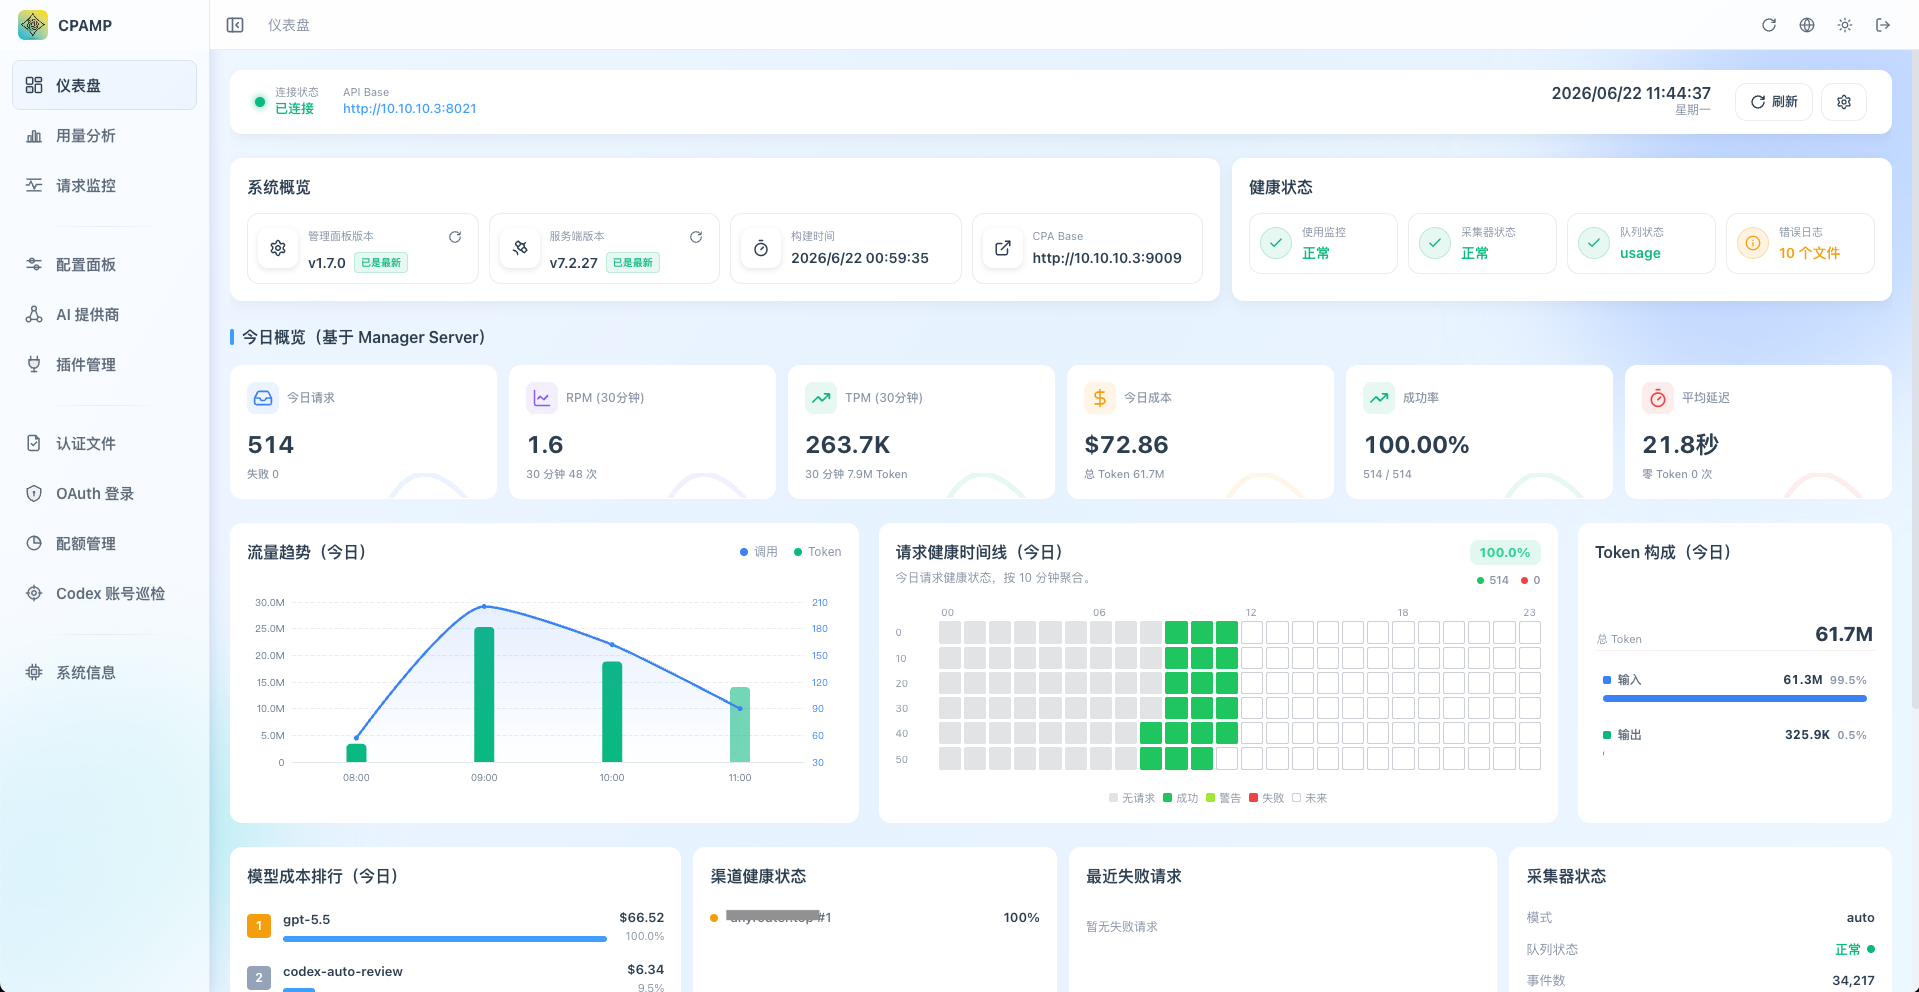
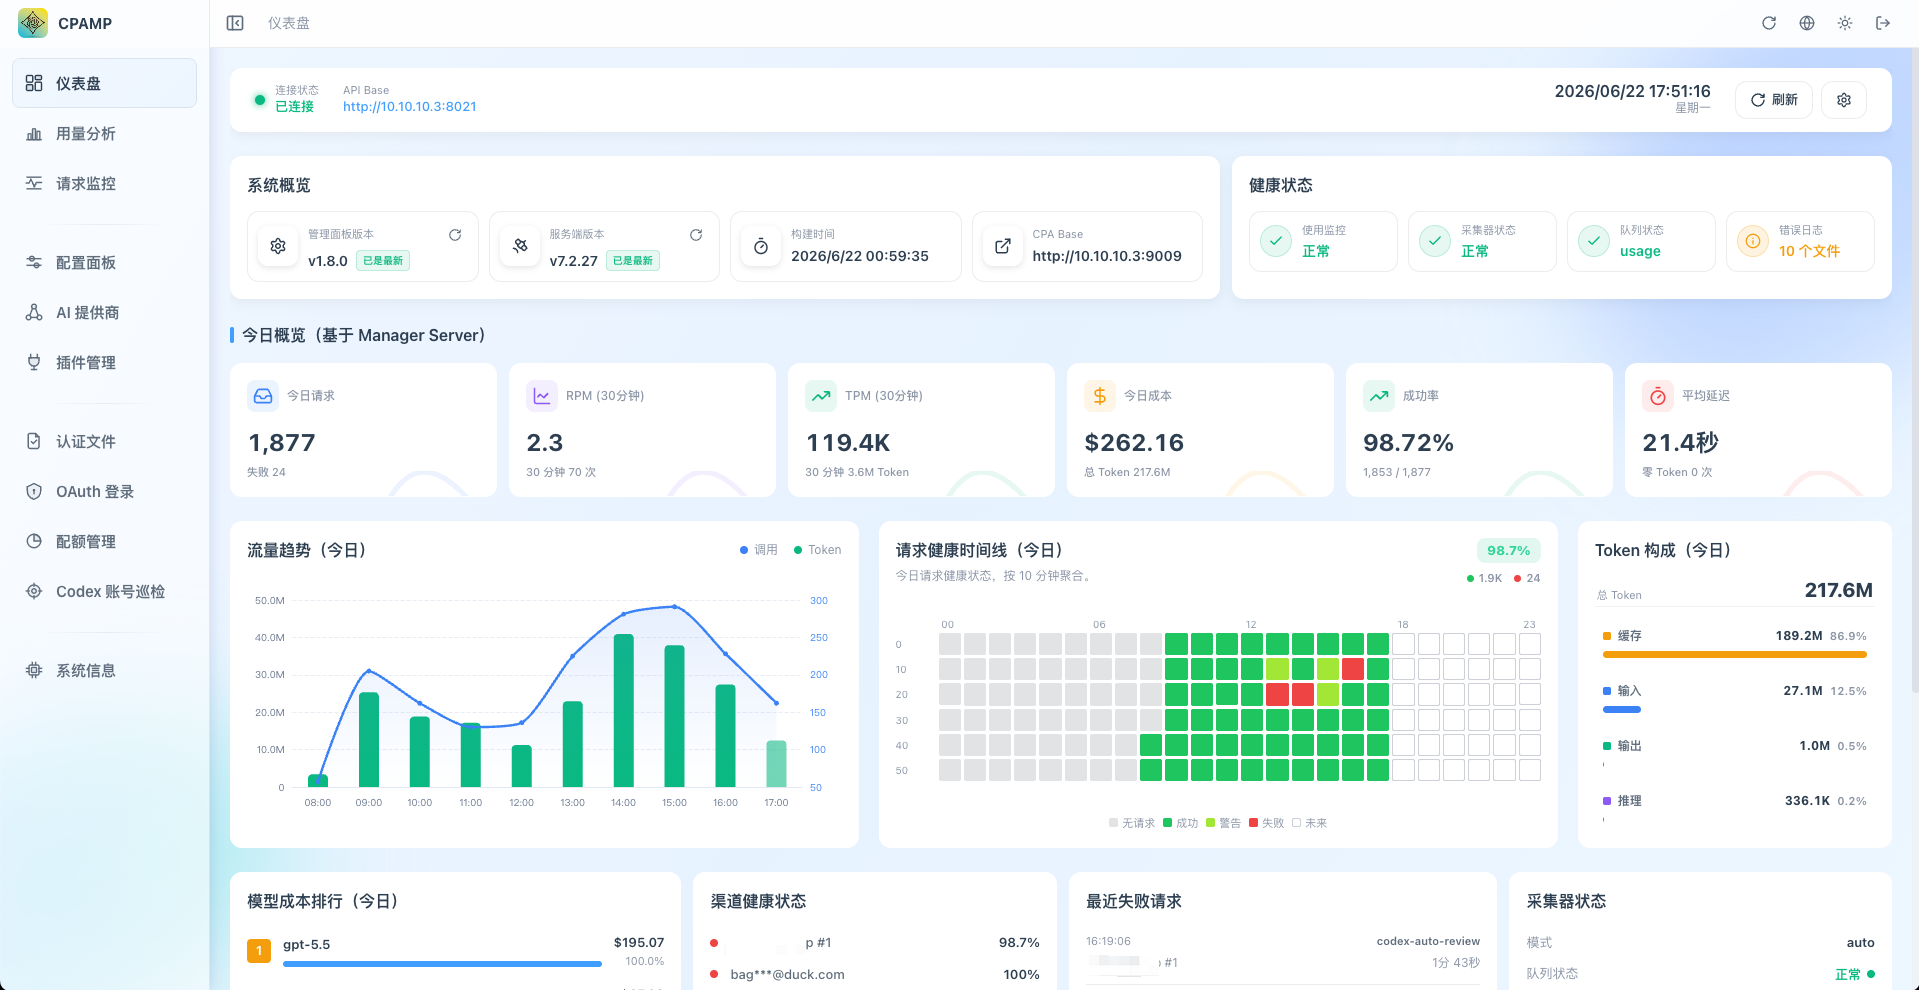
📝 docs(readme): align preview screenshot captions
Replace the mixed Markdown preview tables with uniform HTML tables in both README files.

Include refreshed home screenshots so the preview assets match the updated documentation presentation.

Docs and image-only change; no runtime behavior or build output is affected.

diff --git a/README.md b/README.md
@@ -12,11 +12,28 @@ CPA Manager Plus is a single-file management panel for [CLIProxyAPI](https://git
 
 ## Panel Preview
 
-| Dashboard | Request Monitoring |
-|---|---|
-| <img src="img/home.png" alt="CPA Manager Plus dashboard" width="420"> | <img src="img/monitoring.png" alt="Request monitoring center" width="420"> |
-| Usage Analytics | Codex Account Inspection |
-| <img src="img/usage-analytics.png" alt="Usage analytics view" width="420"> | <img src="img/codex-inspection.png" alt="Codex account inspection view" width="420"> |
+<table>
+  <tr>
+    <td align="center">
+      <strong>Dashboard</strong><br>
+      <img src="img/home.png" alt="CPA Manager Plus dashboard" width="420">
+    </td>
+    <td align="center">
+      <strong>Request Monitoring</strong><br>
+      <img src="img/monitoring.png" alt="Request monitoring center" width="420">
+    </td>
+  </tr>
+  <tr>
+    <td align="center">
+      <strong>Usage Analytics</strong><br>
+      <img src="img/usage-analytics.png" alt="Usage analytics view" width="420">
+    </td>
+    <td align="center">
+      <strong>Codex Account Inspection</strong><br>
+      <img src="img/codex-inspection.png" alt="Codex account inspection view" width="420">
+    </td>
+  </tr>
+</table>
 
 ## Core Features
 

diff --git a/README_CN.md b/README_CN.md
@@ -12,11 +12,28 @@ CPA Manager Plus 是面向 [CLIProxyAPI](https://github.com/router-for-me/CLIPro
 
 ## 面板预览
 
-| 首页仪表盘 | 请求监控 |
-|---|---|
-| <img src="img/home-zh.png" alt="CPA Manager Plus 首页仪表盘" width="420"> | <img src="img/monitoring-zh.png" alt="请求监控中心" width="420"> |
-| 用量分析 | Codex 账号巡检 |
-| <img src="img/usage-analytics-zh.png" alt="用量分析页面" width="420"> | <img src="img/codex-inspection-zh.png" alt="Codex 账号巡检页面" width="420"> |
+<table>
+  <tr>
+    <td align="center">
+      <strong>首页仪表盘</strong><br>
+      <img src="img/home-zh.png" alt="CPA Manager Plus 首页仪表盘" width="420">
+    </td>
+    <td align="center">
+      <strong>请求监控</strong><br>
+      <img src="img/monitoring-zh.png" alt="请求监控中心" width="420">
+    </td>
+  </tr>
+  <tr>
+    <td align="center">
+      <strong>用量分析</strong><br>
+      <img src="img/usage-analytics-zh.png" alt="用量分析页面" width="420">
+    </td>
+    <td align="center">
+      <strong>Codex 账号巡检</strong><br>
+      <img src="img/codex-inspection-zh.png" alt="Codex 账号巡检页面" width="420">
+    </td>
+  </tr>
+</table>
 
 ## 核心能力
 